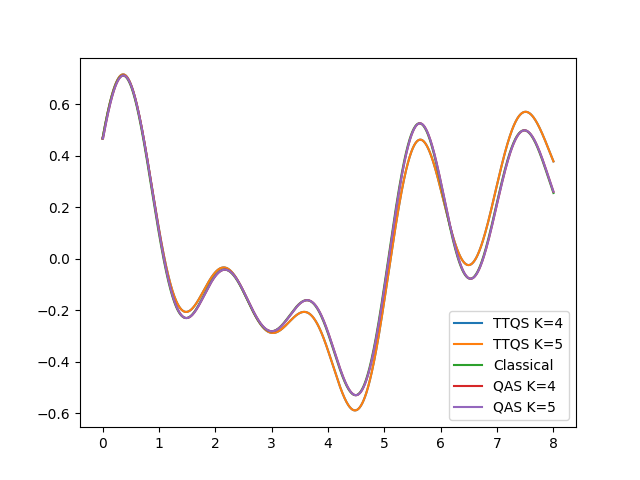
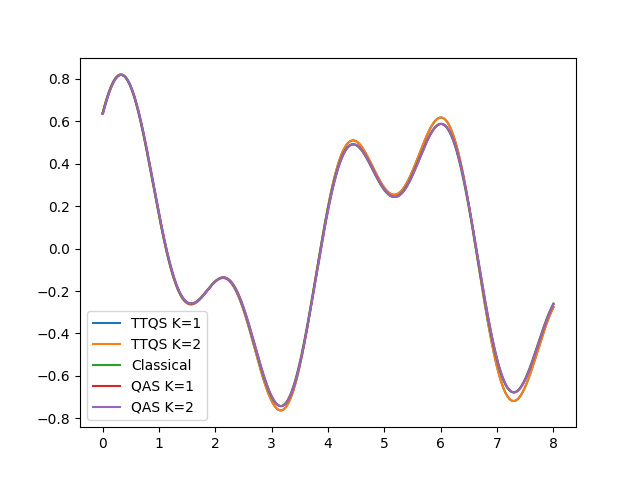
Trying to implement Qiskit, some bugs

diff --git a/Forjontoteststuff.py b/Forjontoteststuff.py
@@ -9,15 +9,17 @@ import warnings
 warnings.filterwarnings("ignore", category=DeprecationWarning) 
 
 #Parameters
-uptowhatK = 5
-num_qubits = 3
+uptowhatK = 2
+num_qubits = 2
 endtime = 8
 num_steps = 1001
 optimizer = 'eigh'
 inv_cond = 10**(-6)
+numberoflayers = 3
+randomseedforinitialstate = 123
 
 #create initial state
-initial_state = acp.Initialstate(num_qubits, "efficient_SU2", 123, 5)
+initial_state = acp.Initialstate(num_qubits, "efficient_SU2", randomseedforinitialstate, numberoflayers)
 
 #define Hamiltonian
 hamiltonian = hcp.transverse_ising_model_1d(num_qubits)
@@ -47,6 +49,8 @@ for k in range(1,uptowhatK+1):
     #Here is where we should be able to specify how to evaluate the matrices. However only the exact method (classical matrix multiplication) has been implemented so far
     E_mat_evaluated =  E_mat_uneval.evaluate_matrix_by_matrix_multiplicaton(initial_state)
     D_mat_evaluated = D_mat_uneval.evaluate_matrix_by_matrix_multiplicaton(initial_state)
+    #E_mat_evaluated =  E_mat_uneval.evaluate_matrix_with_qiskit_circuits(initial_state)
+    #D_mat_evaluated = D_mat_uneval.evaluate_matrix_with_qiskit_circuits(initial_state)
 
     #Get starting alphas
     startingstrings,startingalphas = ansatz.get_alphas()
@@ -88,10 +92,10 @@ cS_instance.evaluate()
 
 #Observable we want to plot
 times = TTQS_instance.get_times()
-observable = hcp.generate_arbitary_observable(num_qubits, [1], ["300"]) 
+observable = hcp.generate_arbitary_observable(num_qubits, [1], ["30"]) 
 
 #What Ks we want to plot
-whatK = [4,5]
+whatK = [1,2]
 
 #Plotting results
 plotp.QS_plotter_forobservable(num_qubits,finalresults,times,whatK,'TTQS',observable,initial_state)
@@ -103,7 +107,7 @@ plotp.CS_plotter_forobservable(times,classicalresult)
 
 
 #Run QAS
-p_invcond = 10**(-6)
+p_invcond = 10**(-3)
 optimizer = 'zvode'
 #create Initial Ansatz for K = 0
 ansatz = acp.initial_ansatz(num_qubits)
@@ -127,6 +131,9 @@ for k in range(1,uptowhatK+1):
     #Here is where we should be able to specify how to evaluate the matrices. However only the exact method (classical matrix multiplication) has been implemented so far
     E_mat_evaluated =  E_mat_uneval.evaluate_matrix_by_matrix_multiplicaton(initial_state)
     D_mat_evaluated = D_mat_uneval.evaluate_matrix_by_matrix_multiplicaton(initial_state)
+    #E_mat_evaluated =  E_mat_uneval.evaluate_matrix_with_qiskit_circuits(initial_state)
+    #D_mat_evaluated = D_mat_uneval.evaluate_matrix_with_qiskit_circuits(initial_state)
+
 
     #Get starting alphas
     startingstrings,startingalphas = ansatz.get_alphas()

diff --git a/matrix_class_package.py b/matrix_class_package.py
@@ -48,3 +48,32 @@ class unevaluatedmatrix(object):
                     temp_matrix += paulistrings[k].get_matrixform()
                 matrix[(i,j)] = initial_statevector.conj().T @ temp_matrix @ initial_statevector
         return matrix
+    def evaluate_matrix_with_qiskit_circuits(self,initial_state_object,sim='noiseless',shots=8192,whichcomputer=None,noisebackend=None):
+        print('Evaluating matrix with Qiskit Circuits')
+        import Qiskit_helperfunctions as Qhf
+        #initial_qiskitcircuit = initial_state_object.get_qiskit_circuit()
+        size = self.size
+        matrix = np.empty([size,size], dtype=np.complex128)
+        #pastresultsevaluated = {}
+        for i in range(size):
+            for j in range(size):
+                paulistrings = self.dict_of_uneval_matrix_elems[(i,j)]
+                #by construction, paulistrings has at least 1 element
+                for k in range(len(paulistrings)):
+                    temporary = 0
+                    thispaulistring = paulistrings[k].get_string_for_hash()
+                    coeff = paulistrings[k].return_coefficient()
+
+                    paulistring_object = paulistrings[k]
+                    a = Qhf.evaluate_circuit(self.N,initial_state_object,paulistring_object,sim,shots=shots,whichrealcomputer=whichcomputer,noisebackend=noisebackend)
+                    temporary = temporary + a*coeff
+                    #if thispaulistring in pastresultsevaluated.keys():
+                    #    temporary = temporary + pastresultsevaluated[thispaulistring]*coeff
+                    #else:
+                    #    paulistring_object = paulistrings[k]
+                    #    a = Qhf.evaluate_circuit(self.N,initial_state_object,paulistring_object,sim,shots)
+                    #    temporary = temporary + a*coeff
+                    #    pastresultsevaluated[thispaulistring] = a
+                matrix[(i,j)] = temporary
+        return matrix
+

diff --git a/Qiskit_helperfunctions.py b/Qiskit_helperfunctions.py
@@ -1,0 +1,40 @@
+import numpy as np
+from qiskit import IBMQ
+from qiskit import QuantumCircuit, execute, result, QuantumRegister
+from qiskit.providers.aer import Aer
+from qiskit.providers.aer.noise import NoiseModel
+from qiskit.providers.ibmq import least_busy
+from qiskit.tools.monitor import job_monitor
+from qiskit.aqua import QuantumInstance
+from qiskit.aqua.operators.primitive_ops import CircuitOp
+from qiskit.ignis.mitigation.measurement import CompleteMeasFitter, complete_meas_cal
+
+def evaluate_circuit(num_qubits,initial_state_object,paulistring_object,sim,shots,whichrealcomputer=None,noisebackend=None):
+    if sim == 'noiseless':
+        backend = Aer.get_backend("qasm_simulator")
+    initial_state_circuit = initial_state_object.get_qiskit_circuit()
+    paulistring_circuit = paulistring_object.get_qiskit_circuit()
+    qc = QuantumCircuit(num_qubits)
+    qc.append(initial_state_circuit,range(num_qubits))
+    qc.append(paulistring_circuit,range(num_qubits))
+    qc.measure_all()
+    if sim == 'noiseless':
+        counts = execute(qc,backend=backend,shots=shots).result().get_counts()
+    newcountdict = {}
+    #Need to reverse the strings (some qiskit thing)
+    for key in counts.keys():
+        newkey = key[::-1]
+        newcountdict[newkey] = counts[key]
+    result = 0
+    for key in newcountdict.keys():
+        subresult = 1
+        for i in range(paulistring_object.get_N()):
+            if paulistring_object.return_string()[i] == 0:
+                subresult = subresult
+            else:
+                if key[i] == '0':
+                    subresult = subresult
+                elif key[i] == '1':
+                    subresult = subresult*-1
+        result = result + subresult*newcountdict[key]
+    return result/sum(newcountdict.values())

diff --git a/pauli_class_package.py b/pauli_class_package.py
@@ -34,6 +34,11 @@ class paulistring(object):
         vals = [self.N, self.coefficient, stringified]
         keys = sorted(self.__dict__.items())
         return hash(tuple(zip(keys,vals)))
+    def get_string_for_hash(self):
+        result = ''
+        for i in self.string:
+            result = result + str(i)
+        return result
     def __str__(self):
         return self.__repr__()
     def get_complex_conjugate(self):
@@ -49,6 +54,18 @@ class paulistring(object):
         for j in index_string[1:]:
             matrix = np.kron(matrix, sigmas[int(j)])
         return coeff * matrix
+    def get_N(self):
+        return self.N
+    def get_qiskit_circuit(self):
+        from qiskit import QuantumCircuit
+        qc = QuantumCircuit(self.N)
+        for i in range(self.N):
+            if self.string[i]==1:
+                qc.h(i)
+            if self.string[i]==2:
+                qc.sdg(i)
+                qc.h(i)
+        return qc
 
 def create_identity(N):
     return paulistring(N,N*[0],1)

diff --git a/ansatz_class_package.py b/ansatz_class_package.py
@@ -95,6 +95,13 @@ class Initialstate(object):
             statevector_backend = Aer.get_backend('statevector_simulator')
             state = execute(self.qiskit_circuit, statevector_backend).result().get_statevector()
             return state
+    
+    def get_qiskit_circuit(self):
+        if self.qiskit_circuit == None:
+            #print('Method chosen has not been implemented in circuit fashion. Check ansatz_class_package for details')
+            raise(RuntimeError('Method chosen has not been implemented in circuit fashion. Check ansatz_class_package for details'))
+        else:
+            return self.qiskit_circuit
 
 
 def initial_ansatz(N):
